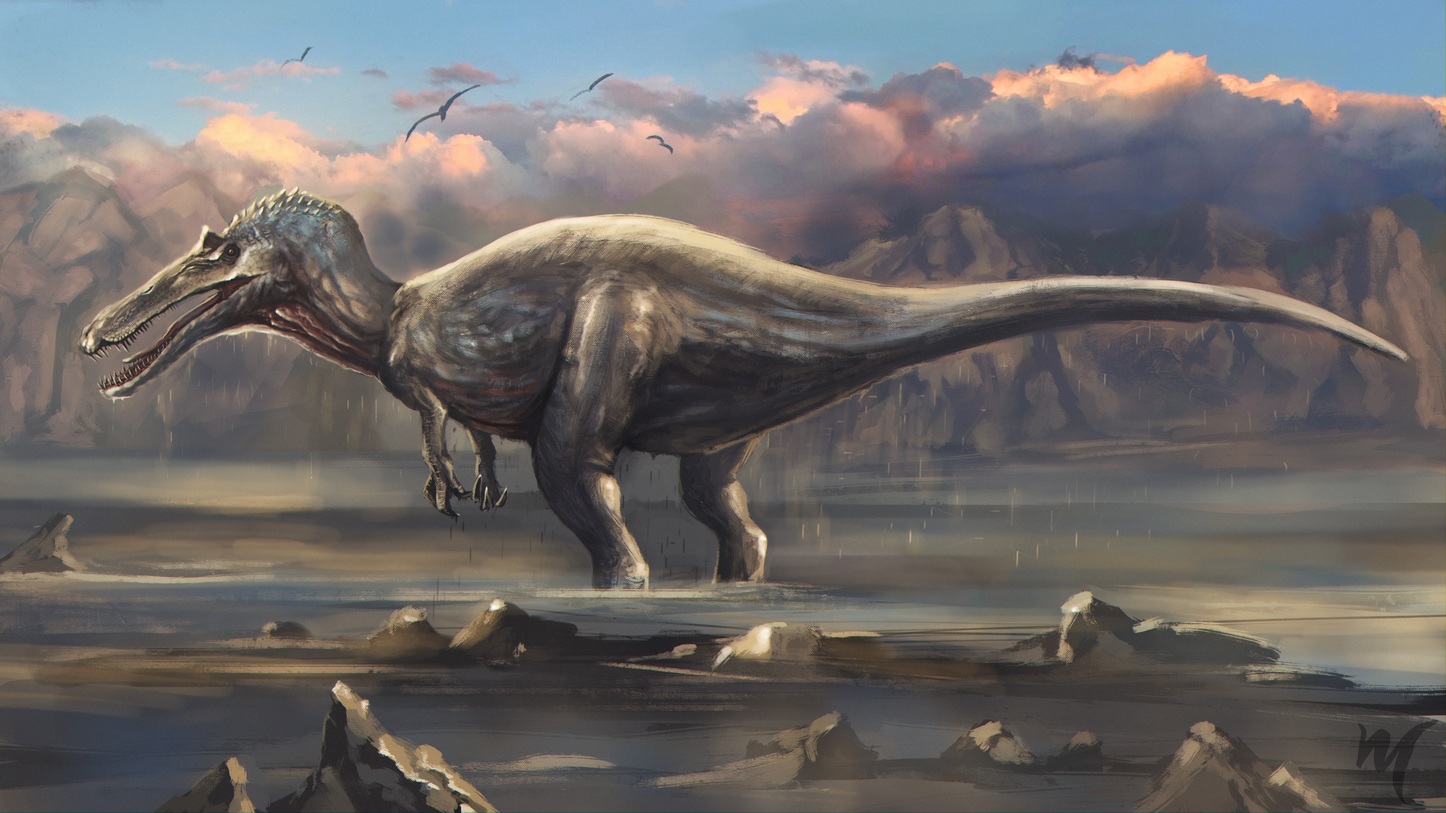
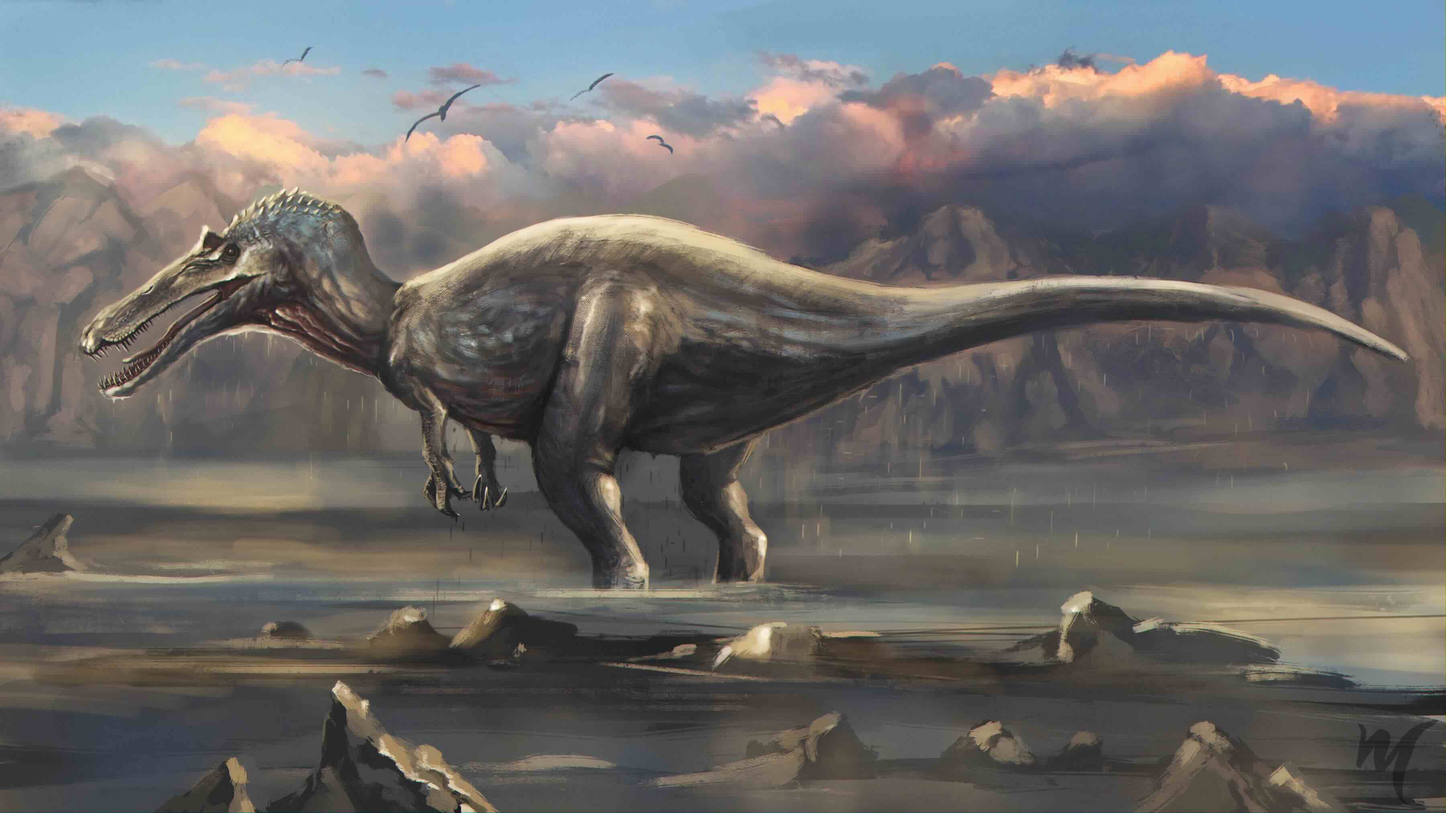
pic optimization

diff --git a/src/data/creatures.ts b/src/data/creatures.ts
@@ -190,7 +190,7 @@ export const creatures: Creature[] = [
     length: '15-18 meters',
     weight: '20,000 - 22,000 kg',
     diet: 'Carnivore',
-    image: '/images/spinosaurus.jpg',
+    image: '/images/spinosaurus2.jpg',
     description: 'Spinosaurus, a massive Cretaceous theropod measuring up to 59 feet long and weighing as much as 20 tons, is renowned for its long, crocodile-like snout, conical teeth suited for fish-catching, and distinctive sail-like structure on its back formed by elongated neural spines, which is thought to have played a role in thermoregulation, display, or stability while swimming, as evidence suggests this semi-aquatic dinosaur, with its robust forelimbs, small hindlimbs, and powerful tail, likely spent significant time in water hunting fish, making it one of the most unusual and debated dinosaurs in paleontology.',
     category: 'Dinosaurs',
     subcategory: 'Theropods',
@@ -430,7 +430,7 @@ export const creatures: Creature[] = [
     length: '3.5-4 meters',
     weight: '980 kg',
     diet: 'Carnivore',
-    image: '/images/ceratosaurus2.png',
+    image: '/images/ceratosaurus2.jpg',
     description: 'Ceratosaurus dentisulcatus and Ceratosaurus nasicornis exhibit distinct differences in their physical characteristics and likely ecological roles, with C. nasicornis featuring a prominent, horn-like structure on its nose, which may have been used for display or combat, and a more robust, larger body measuring up to 8 meters in length, suggesting it could have been a versatile predator capable of both hunting and scavenging; in contrast, C. dentisulcatus was generally smaller, around 3.5 to 4 meters long, with more specialized, serrated teeth likely adapted for a diet focused on smaller, more agile prey, and a less pronounced nasal feature, indicating it may have been a more nimble and precise predator, occupying a slightly different ecological niche.',
     category: 'Dinosaurs',
     subcategory: 'Theropods',
@@ -670,12 +670,12 @@ export const creatures: Creature[] = [
     length: '7.5 – 10 m',
     weight: '1,200 – 1,700 kg',
     diet: 'Carnivore',
-    image: '/images/baryonyx.png',
+    image: '/images/baryonyx.jpg',
     description: 'Baryonyx was a large, carnivorous theropod dinosaur that lived during the Early Cretaceous period, around 130 to 125 million years ago, in what is now Europe, specifically the United Kingdom and Spain. Recognizable by its long, crocodile-like snout, Baryonyx grew to lengths of up to 30 feet (9 meters) and likely weighed between 1.5 to 2 tons. It belonged to the spinosaurid family, which is known for its semi-aquatic adaptations, and Baryonyx is one of the best-known and earliest members of this group. Its long, slender jaws were filled with conical teeth, ideal for catching slippery prey like fish, which was likely a significant part of its diet. Fossil evidence suggests that Baryonyx had a varied diet, also feeding on small dinosaurs and possibly even large prey, such as the herbivorous Iguanodon, as indicated by its fossilized remains found in the stomach cavity of one individual.\n\nThe most striking feature of Baryonyx was its large, hook-shaped claw on the first digit of each hand, which could have been used for grasping prey or possibly for defense. Despite its relatively slender build compared to some other theropods, Baryonyx was a powerful predator, capable of swift movement on land and possibly adept at swimming or wading in water, much like modern-day crocodiles. Its semi-aquatic lifestyle is further supported by its long, muscular tail, which would have aided in swimming, as well as the structure of its teeth, well-suited for grasping rather than slicing, indicating a feeding behavior more in line with fish-eating animals.\n\nThe discovery of Baryonyx in the 1980s was significant because it provided crucial evidence for the hypothesis that spinosaurids were not solely land-based predators but had adaptations for a more aquatic or semi-aquatic lifestyle. As one of the first dinosaur fossils to show such features, Baryonyx helped reshape our understanding of the diversity of theropod feeding behaviors and habitats during the Early Cretaceous period.',
     category: 'Dinosaurs',
     subcategory: 'Theropods',
     family: 'Spinosauridae'
-  },
+  },  
     {
     id: 'suchomimus-tenerensis',
     name: 'Suchomimus tenerensis',
@@ -730,7 +730,7 @@ export const creatures: Creature[] = [
     length: ' 12 to 14 meters ',
     weight: '4,000-7,000 kg',
     diet: 'Carnivore',
-    image: '/images/spinosaurus.png',
+    image: '/images/spinosaurus.jpg',
     description: 'Certainly! Oxalaia was a relatively recently discovered genus of spinosaurid dinosaur, named in 2011 from fossils found in the Alcântara Formation of northeastern Brazil. The partial remains, including parts of the skull, suggest that Oxalaia was a massive predator, with an estimated length of up to 12-14 meters, making it one of the largest known spinosaurids, possibly rivaling or exceeding Spinosaurus in size. Like other members of the Spinosauridae family, it likely had a long, narrow skull with conical teeth, ideal for catching fish, which indicates that it might have had a semi-aquatic lifestyle, feeding in rivers, lakes, or coastal environments.\n\nThe spinosaurid family, including Oxalaia, is distinguished by their elongated, sail-like structures on their backs, though it is unclear if Oxalaia had such a sail, as the fossil evidence does not preserve this feature. However, it’s possible that it had a similar structure, used either for thermoregulation or display. Oxalaia likely coexisted with other large predators in the region, including theropods and crocodile-like reptiles, and would have been a top predator in its ecosystem, hunting both large terrestrial prey and aquatic animals.\n\nDespite its impressive size and specialized features, much about its behavior, ecology, and exact place in the evolutionary tree of spinosaurids remains speculative, as the fossil record for this particular dinosaur is still limited. Nonetheless, Oxalaia offers a fascinating glimpse into the diverse and unique predatory strategies of Cretaceous theropods.',
     category: 'Dinosaurs',
     subcategory: 'Theropods',
